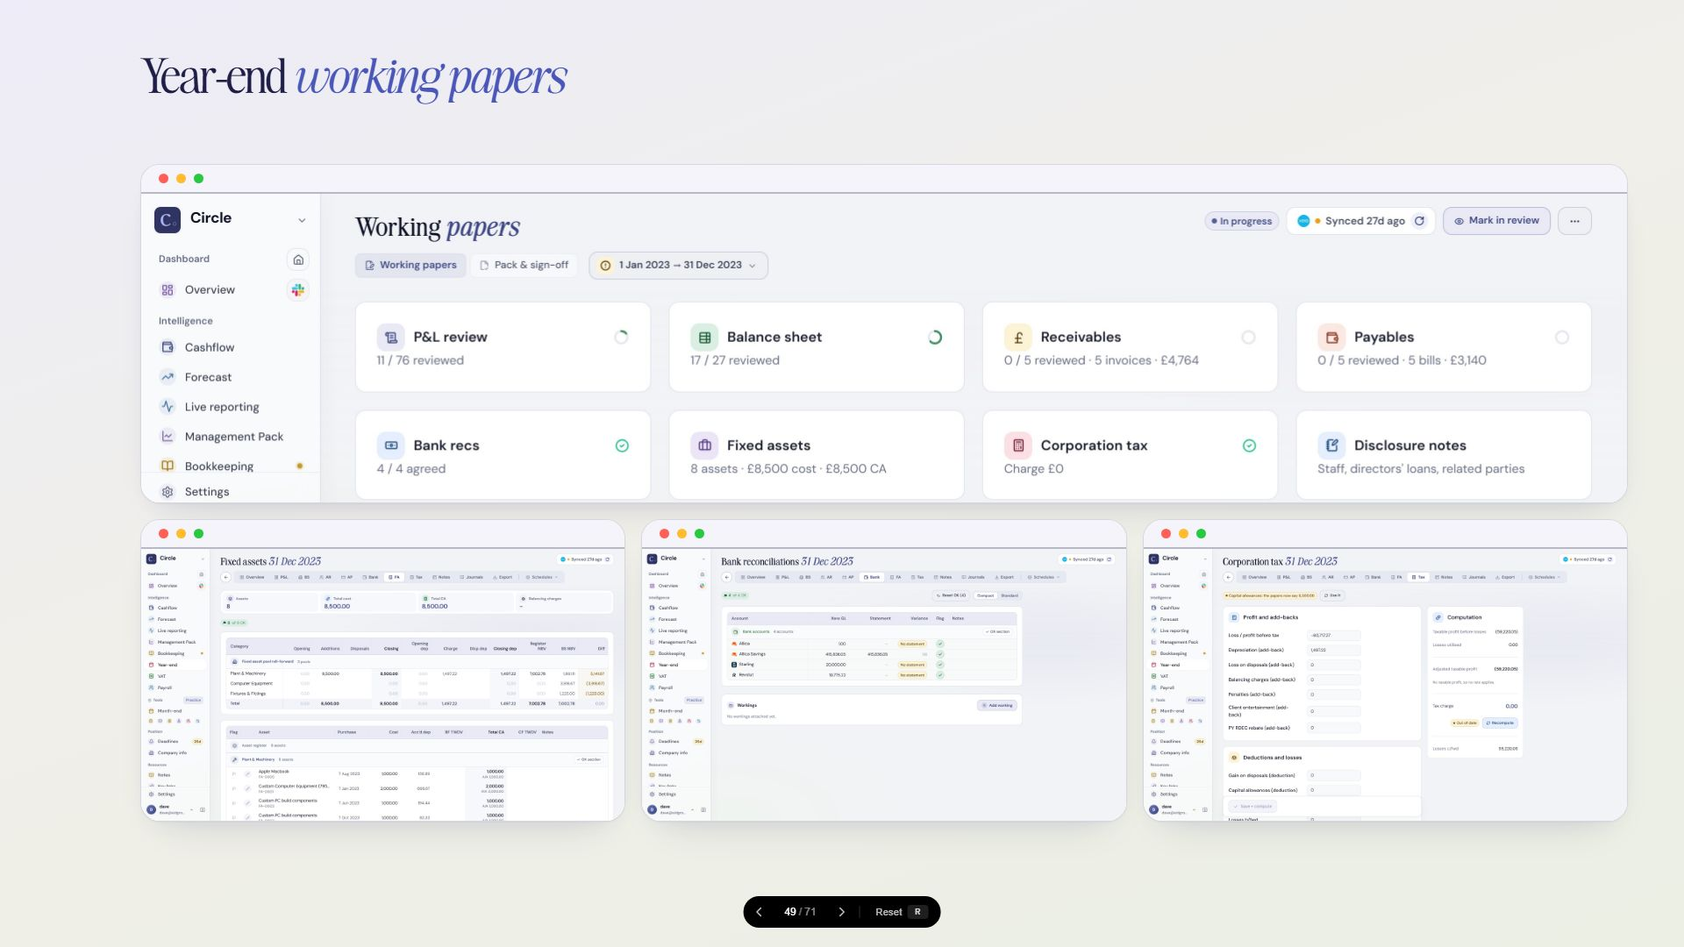
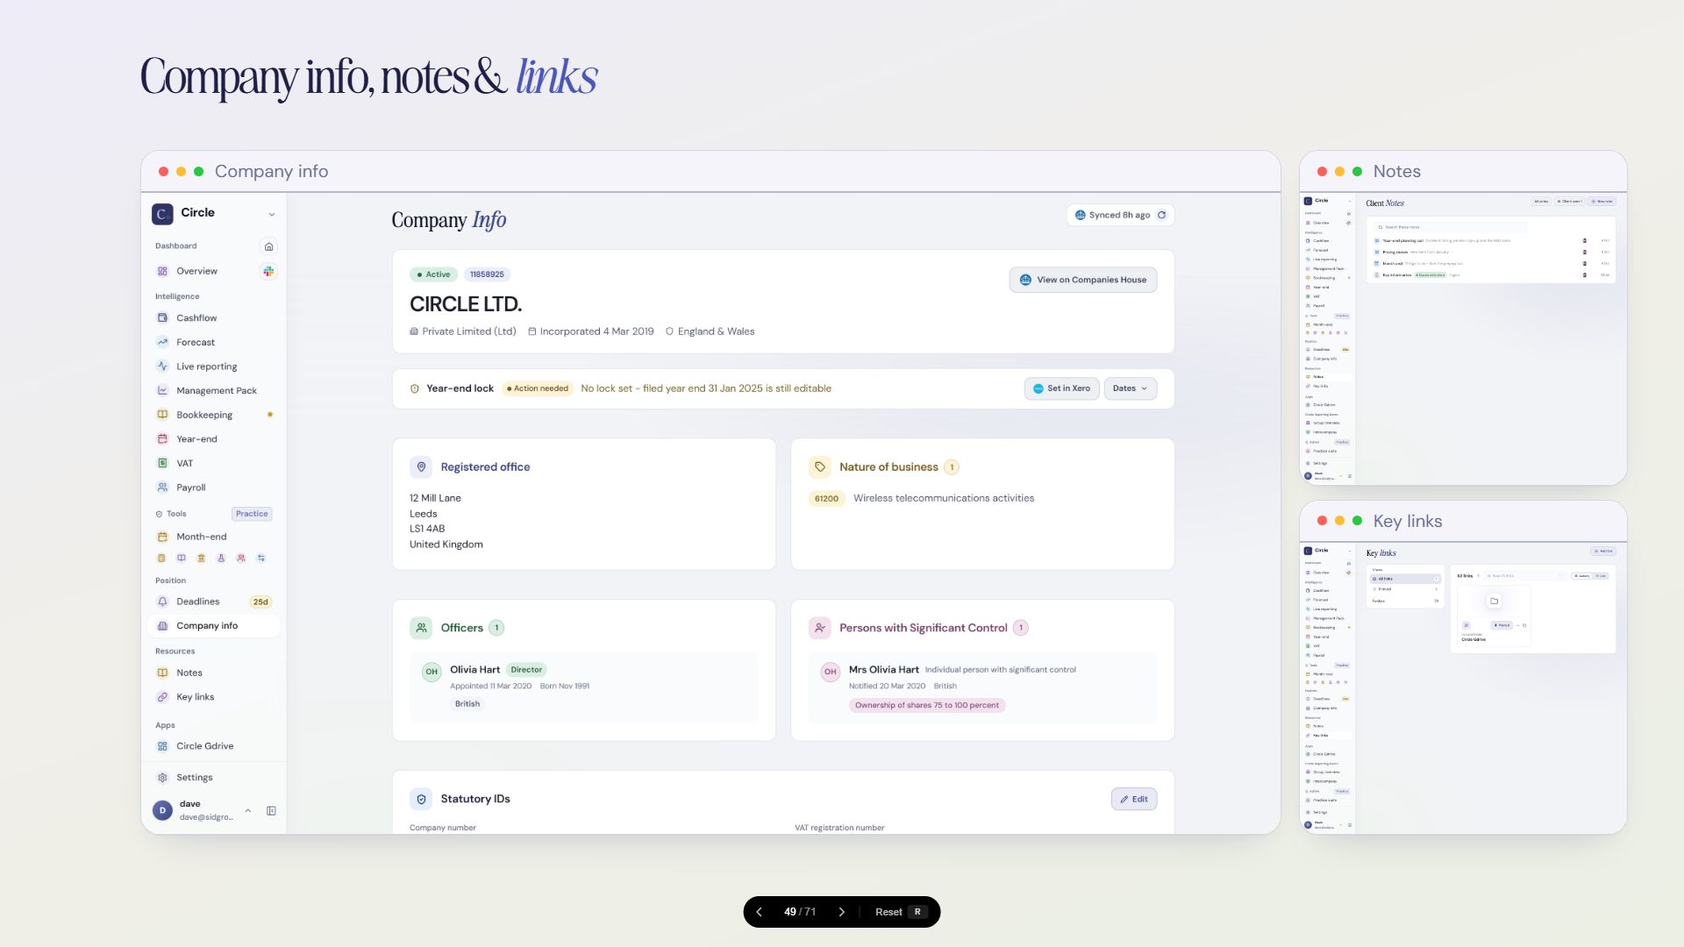
Auto Bank Wreck: cash slides lead the section, live reporting opened to its transactions, payroll journal, proposals hub, company info with notes and links, schedules named, automations and section tags removed

diff --git a/presentations/auto-bank-wreck/index.html b/presentations/auto-bank-wreck/index.html
@@ -2676,99 +2676,6 @@ deck-stage { background: #0a0a0a; }
     </div>
   </section>
 
-  <section class="slide" data-label="Practice &amp; client overview">
-    <div class="frame" style="--pad-y: 56px;">
-      <div class="topbar"><p class="section-tag">What works <em>· 02 build</em></p><span class="page-chip"></span></div>
-
-      <div class="feat-head"><h2 class="display">Practice &amp; client <em>overview</em></h2></div>
-      <div class="fill center-y">
-        <div class="duo">
-        <figure class="shot window"><img src="images/slides/41a-app-showcase/practice-overview-tall-oct06.jpg" alt="Practice overview: every client with cash, bank lines, staff, packs, VAT, year end and confirmation statement"><figcaption></figcaption></figure>
-        <figure class="shot window"><img src="images/slides/41a-app-showcase/client-overview-oct06.jpg" alt="Circle's client overview: cash, net this month, things to action and the month-end checklist"><figcaption></figcaption></figure>
-        </div>
-      </div>
-
-      <div class="bottombar"></div>
-    </div>
-  </section>
-
-  <section class="slide" data-label="Deadlines">
-    <div class="frame" style="--pad-y: 56px;">
-      <div class="topbar"><p class="section-tag">What works <em>· 02 build</em></p><span class="page-chip"></span></div>
-
-      <div class="feat-head"><h2 class="display">Deadlines &amp; <em>HMRC</em></h2></div>
-      <div class="fill center-y">
-        <div class="pair trio">
-          <figure class="shot window"><img src="images/slides/41a-app-showcase/deadlines-practice-tall-oct06.jpg" alt="Practice deadlines: what is next, then every client's year-end accounts, confirmation statements and VAT"><figcaption></figcaption></figure>
-          <figure class="shot window"><img src="images/slides/41a-app-showcase/deadlines-client-tall-oct06.jpg" alt="Circle's own deadlines page: what is next, the year ahead and each month's filings"><figcaption></figcaption></figure>
-          <div class="slack-inset side digest" aria-hidden="true">
-            <div class="si-bar"><img src="images/shared/site/slack.svg" alt=""><span>#_filing_deadlines</span></div>
-            <img class="sk-image" src="images/shared/slack/deadlines-digest-oct06.png" alt="">
-          </div>
-        </div>
-      </div>
-
-      <div class="bottombar"></div>
-    </div>
-  </section>
-
-  <section class="slide" data-label="Setlist">
-    <div class="frame" style="--pad-y: 56px;">
-      <div class="topbar"><p class="section-tag">What works <em>· 02 build</em></p><span class="page-chip"></span></div>
-
-      <div class="feat-head"><h2 class="display">Set<em>list</em></h2></div>
-      <div class="fill center-y">
-        <div class="shot-wrap">
-        <figure class="shot window"><img src="images/slides/41a-app-showcase/setlist-oct06.jpg" alt="Setlist: inbox, projects, overdue work, the day planner and filing deadlines in one place"><figcaption></figcaption></figure>
-        </div>
-      </div>
-
-      <div class="bottombar"></div>
-    </div>
-  </section>
-
-  <section class="slide" data-label="Automations">
-    <div class="frame" style="--pad-y: 56px;">
-      <div class="topbar"><p class="section-tag">What works <em>· 02 build</em></p><span class="page-chip"></span></div>
-
-      <div class="feat-head"><h2 class="display">Practice <em>automations</em></h2></div>
-      <div class="fill center-y">
-        <div class="pair">
-          <figure class="shot window"><img src="images/slides/41a-app-showcase/automations-oct06.jpg" alt="Practice automations: 51 automations, each run tracked, failures and overdue runs flagged"><figcaption></figcaption></figure>
-          <div class="slack-inset side" aria-hidden="true">
-            <div class="si-bar"><img src="images/shared/site/slack.svg" alt=""><span>#automation_flags</span></div>
-            <div class="si-msg">
-              <span class="si-av">S</span>
-              <div class="si-body">
-                <p class="si-name">Sidgrove Intelligence <span class="sk-app">APP</span> <span class="si-time">3:00</span></p>
-                <p class="sk-header">⚠ Automation Error</p>
-                <div class="sk-fields"><span><b>Workflow</b><br>Cashflow Daily - CBD HF</span><span><b>Spreadsheet</b><br>CBD HF - Cashflow Review by Contact</span><span><b>When</b><br>6 Oct 2026, 02:38</span></div>
-                <div class="sk-actions"><span class="sk-btn">📄 Open spreadsheet</span></div>
-              </div>
-            </div>
-          </div>
-        </div>
-      </div>
-
-      <div class="bottombar"></div>
-    </div>
-  </section>
-
-  <section class="slide" data-label="Embedded AI">
-    <div class="frame" style="--pad-y: 56px;">
-      <div class="topbar"><p class="section-tag">What works <em>· 02 build</em></p><span class="page-chip"></span></div>
-
-      <div class="feat-head has-sub"><h2 class="display">Embedded <em>AI</em></h2><p class="sub feat-sub">AI savvy, not AI native. <em>Deterministic at its core.</em></p></div>
-      <div class="fill center-y">
-        <div class="shot-wrap">
-          <figure class="shot window"><img src="images/slides/41a-app-showcase/ai-integrations-oct06.jpg" alt="AI integrations: Claude, Jev, Gemini and other labs, what each one does, and the month spend against its budget"><figcaption></figcaption></figure>
-        </div>
-      </div>
-
-      <div class="bottombar"></div>
-    </div>
-  </section>
-
   <section class="slide" data-label="Daily cashflow">
     <div class="frame" style="--pad-y: 56px;">
       <div class="topbar"><p class="section-tag">What works <em>· 02 build</em></p><span class="page-chip"></span></div>
@@ -2827,6 +2734,72 @@ deck-stage { background: #0a0a0a; }
     </div>
   </section>
 
+  <section class="slide" data-label="Practice &amp; client overview">
+    <div class="frame" style="--pad-y: 56px;">
+      <div class="topbar"><p class="section-tag">What works <em>· 02 build</em></p><span class="page-chip"></span></div>
+
+      <div class="feat-head"><h2 class="display">Practice &amp; client <em>overview</em></h2></div>
+      <div class="fill center-y">
+        <div class="duo">
+        <figure class="shot window"><img src="images/slides/41a-app-showcase/practice-overview-tall-oct06.jpg" alt="Practice overview: every client with cash, bank lines, staff, packs, VAT, year end and confirmation statement"><figcaption></figcaption></figure>
+        <figure class="shot window"><img src="images/slides/41a-app-showcase/client-overview-oct06.jpg" alt="Circle's client overview: cash, net this month, things to action and the month-end checklist"><figcaption></figcaption></figure>
+        </div>
+      </div>
+
+      <div class="bottombar"></div>
+    </div>
+  </section>
+
+  <section class="slide" data-label="Deadlines">
+    <div class="frame" style="--pad-y: 56px;">
+      <div class="topbar"><p class="section-tag">What works <em>· 02 build</em></p><span class="page-chip"></span></div>
+
+      <div class="feat-head"><h2 class="display">Deadlines &amp; <em>HMRC</em></h2></div>
+      <div class="fill center-y">
+        <div class="pair trio">
+          <figure class="shot window"><img src="images/slides/41a-app-showcase/deadlines-practice-tall-oct06.jpg" alt="Practice deadlines: what is next, then every client's year-end accounts, confirmation statements and VAT"><figcaption></figcaption></figure>
+          <figure class="shot window"><img src="images/slides/41a-app-showcase/deadlines-client-tall-oct06.jpg" alt="Circle's own deadlines page: what is next, the year ahead and each month's filings"><figcaption></figcaption></figure>
+          <div class="slack-inset side digest" aria-hidden="true">
+            <div class="si-bar"><img src="images/shared/site/slack.svg" alt=""><span>#_filing_deadlines</span></div>
+            <img class="sk-image" src="images/shared/slack/deadlines-digest-oct06.png" alt="">
+          </div>
+        </div>
+      </div>
+
+      <div class="bottombar"></div>
+    </div>
+  </section>
+
+  <section class="slide" data-label="Setlist">
+    <div class="frame" style="--pad-y: 56px;">
+      <div class="topbar"><p class="section-tag">What works <em>· 02 build</em></p><span class="page-chip"></span></div>
+
+      <div class="feat-head"><h2 class="display">Set<em>list</em></h2></div>
+      <div class="fill center-y">
+        <div class="shot-wrap">
+        <figure class="shot window"><img src="images/slides/41a-app-showcase/setlist-oct06.jpg" alt="Setlist: inbox, projects, overdue work, the day planner and filing deadlines in one place"><figcaption></figcaption></figure>
+        </div>
+      </div>
+
+      <div class="bottombar"></div>
+    </div>
+  </section>
+
+  <section class="slide" data-label="Embedded AI">
+    <div class="frame" style="--pad-y: 56px;">
+      <div class="topbar"><p class="section-tag">What works <em>· 02 build</em></p><span class="page-chip"></span></div>
+
+      <div class="feat-head has-sub"><h2 class="display">Embedded <em>AI</em></h2><p class="sub feat-sub">AI savvy, not AI native. <em>Deterministic at its core.</em></p></div>
+      <div class="fill center-y">
+        <div class="shot-wrap">
+          <figure class="shot window"><img src="images/slides/41a-app-showcase/ai-integrations-oct06.jpg" alt="AI integrations: Claude, Jev, Gemini and other labs, what each one does, and the month spend against its budget"><figcaption></figcaption></figure>
+        </div>
+      </div>
+
+      <div class="bottombar"></div>
+    </div>
+  </section>
+
   <section class="slide" data-label="Management accounts">
     <div class="frame" style="--pad-y: 56px;">
       <div class="topbar"><p class="section-tag">What works <em>· 02 build</em></p><span class="page-chip"></span></div>
@@ -2874,7 +2847,7 @@ deck-stage { background: #0a0a0a; }
       <div class="feat-head"><h2 class="display">Live <em>reporting</em></h2></div>
       <div class="fill center-y">
         <div class="shot-wrap">
-          <figure class="shot window"><img src="images/slides/41a-app-showcase/live-reporting-oct06.jpg" alt="Circle live profit and loss, straight from Xero: month by month with variance"><figcaption></figcaption></figure>
+          <figure class="shot window"><img src="images/slides/41a-app-showcase/live-drill-oct06.jpg" alt="Circle live profit and loss with one figure opened: its transactions with supplier logos, each one a click from the prepayments and accruals schedule"><figcaption></figcaption></figure>
         </div>
       </div>
 
@@ -2931,11 +2904,11 @@ deck-stage { background: #0a0a0a; }
       <div class="feat-head"><h2 class="display">Month <em>end</em></h2></div>
       <div class="fill center-y">
         <div class="mosaic">
-          <figure class="shot window"><img src="images/slides/41a-app-showcase/accruals-oct06.jpg" alt="Circle prepayments and accruals schedule with supplier logos, synced to Xero"><figcaption></figcaption></figure>
+          <figure class="shot window"><img src="images/slides/41a-app-showcase/accruals-oct06.jpg" alt="Circle prepayments and accruals schedule with supplier logos, synced to Xero"><figcaption>Prepayments &amp; accruals</figcaption></figure>
           <div class="mosaic-col">
-            <figure class="shot window"><img src="images/slides/41a-app-showcase/payroll-realloc-oct06.jpg" alt="Payroll reallocations by department, posted to Xero"><figcaption></figcaption></figure>
-            <figure class="shot window"><img src="images/slides/41a-app-showcase/direct-costs-oct06.jpg" alt="Direct costs reallocation journal"><figcaption></figcaption></figure>
-            <figure class="shot window"><img src="images/slides/41a-app-showcase/corp-tax-oct06.jpg" alt="Corporation tax accrual, month by month"><figcaption></figcaption></figure>
+            <figure class="shot window"><img src="images/slides/41a-app-showcase/payroll-realloc-oct06.jpg" alt="Payroll reallocations by department, posted to Xero"><figcaption>Payroll reallocations</figcaption></figure>
+            <figure class="shot window"><img src="images/slides/41a-app-showcase/direct-costs-oct06.jpg" alt="Direct costs reallocation journal"><figcaption>Direct costs</figcaption></figure>
+            <figure class="shot window"><img src="images/slides/41a-app-showcase/corp-tax-oct06.jpg" alt="Corporation tax accrual, month by month"><figcaption>Corporation tax</figcaption></figure>
           </div>
         </div>
       </div>
@@ -2950,11 +2923,9 @@ deck-stage { background: #0a0a0a; }
 
       <div class="feat-head"><h2 class="display">Payroll <em>review</em></h2></div>
       <div class="fill center-y">
-        <div class="pair">
-          <figure class="shot window">
-            <img src="images/slides/41a-app-showcase/payroll-oct06.jpg" alt="Circle payroll review: this month against last, line by line">
-            <figcaption></figcaption>
-          </figure>
+        <div class="pair trio">
+          <figure class="shot window"><img src="images/slides/41a-app-showcase/payroll-review-tall-oct06.jpg" alt="Circle payroll review: this month against last, line by line"><figcaption></figcaption></figure>
+          <figure class="shot window"><img src="images/slides/41a-app-showcase/payroll-journal-tall-oct06.jpg" alt="The payroll journal for the month, balanced and ready to post to Xero"><figcaption></figcaption></figure>
           <div class="slack-inset side" aria-hidden="true">
             <div class="si-bar"><img src="images/shared/site/slack.svg" alt=""><span>#circle_finance</span></div>
             <div class="si-msg">
@@ -3038,6 +3009,25 @@ deck-stage { background: #0a0a0a; }
     </div>
   </section>
 
+  <section class="slide" data-label="Company info, notes &amp; links">
+    <div class="frame" style="--pad-y: 56px;">
+      <div class="topbar"><p class="section-tag">What works <em>· 02 build</em></p><span class="page-chip"></span></div>
+
+      <div class="feat-head"><h2 class="display">Company info, notes &amp; <em>links</em></h2></div>
+      <div class="fill center-y">
+        <div class="mosaic two">
+          <figure class="shot window"><img src="images/slides/41a-app-showcase/company-info-oct06.jpg" alt="Company information from Companies House: registered office, nature of business, officers and persons with significant control"><figcaption>Company info</figcaption></figure>
+          <div class="mosaic-col">
+            <figure class="shot window"><img src="images/slides/41a-app-showcase/notes-tall-oct06.jpg" alt="Client notes, some shared with the client"><figcaption>Notes</figcaption></figure>
+            <figure class="shot window"><img src="images/slides/41a-app-showcase/links-tall-oct06.jpg" alt="Key links for the client, pinned and in folders"><figcaption>Key links</figcaption></figure>
+          </div>
+        </div>
+      </div>
+
+      <div class="bottombar"></div>
+    </div>
+  </section>
+
     <section class="slide" data-label="Groups &amp; intercompany">
     <div class="frame" style="--pad-y: 56px;">
       <div class="topbar"><p class="section-tag">What works <em>· 02 build</em></p><span class="page-chip"></span></div>
@@ -3088,9 +3078,9 @@ deck-stage { background: #0a0a0a; }
 
       <div class="feat-head"><h2 class="display"><em>Proposals</em></h2></div>
       <div class="fill center-y">
-        <div class="duo with-side">
-        <figure class="shot window"><img src="images/slides/41a-app-showcase/proposal-cover.jpg" alt="A proposal for Circle: the cover and the current situation"><figcaption></figcaption></figure>
-        <figure class="shot window"><img src="images/slides/41a-app-showcase/proposal-fees.jpg" alt="The proposal fees: recurring monthly services with the first three months discounted"><figcaption></figcaption></figure>
+        <div class="tri3 fit">
+          <figure class="shot window"><img src="images/slides/41a-app-showcase/proposals-hub-oct06.jpg" alt="Practice proposals: what to chase, drafts, won this year, and each proposal with its status. Names and figures changed"><figcaption></figcaption></figure>
+          <figure class="shot window"><img src="images/slides/41a-app-showcase/proposal-fees.jpg" alt="The proposal fees: recurring monthly services with the first three months discounted"><figcaption></figcaption></figure>
           <div class="slack-inset side" aria-hidden="true">
             <div class="si-bar"><img src="images/shared/site/slack.svg" alt=""><span>#proposals</span></div>
             <div class="si-msg">
@@ -3887,24 +3877,24 @@ deck-stage { background: #0a0a0a; }
   {"say":["So how do I build those deterministic tools? Vibe coding: describe it, it codes it. Everything in this section - the app, the slides, the websites, the brand - was built this way."]},
   {"say":["Sidgrove Intelligence: the app that sits between my clients and the work I do. Every line of it was written with Claude Code. Solid surfaces, dense where it needs to be; it is a product, not a demo.","Think of it as an orchestration layer: Xero, the sheets, payroll and Slack, with one way in and one way out. And the future is embedding something like this directly into the ledger."]},
   {"say":["Hundreds of features, and counting. One app. It sits between me and my clients, with Slack alongside: one way in and one way out for the whole firm, not fifteen apps stitched together.","And much more. It has become the central app between my clients and the work, with Slack alongside for live comms. The GenAI is in how it was built, not in what it posts."]},
-  {"say":["The practice overview: every client, their cash, what is due and what is late. And one click into any client: cash, what needs doing, and the month-end checklist."]},
-  {"say":["Deadlines. The practice view on the left: every client's year-end accounts, confirmation statements and VAT. The client's own view in the middle. And every morning at eight the same thing lands in Slack."]},
-  {"say":["Task management, built in: every project, the day planned, and the filing deadlines sitting alongside the work."]},
-  {"say":["Fifty automations running across the practice, every run tracked. When one fails, it says so."]},
-  {"say":["And the AI inside it. AI savvy, not AI native: the app is deterministic at its core, and AI is used where it earns its place. Every model, what it does, what it reads, and what it costs: about six pounds this month."]},
   {"say":["Daily cashflow, pulled over the bank and ledger APIs every morning. This is the demo client, Circle; the real ones look the same.","And the weekly cashflow report lands in Slack automatically: balance, net, spend, income, top payments. Nobody has to open the app."]},
   {"say":["The 13-week cash forecast: cash today, what is coming in and going out, and the lowest point before it happens."]},
   {"say":["Forecasting: actuals roll straight into a 12-month forecast, line by line, with its own rules. This used to be a spreadsheet."]},
+  {"say":["The practice overview: every client, their cash, what is due and what is late. And one click into any client: cash, what needs doing, and the month-end checklist."]},
+  {"say":["Deadlines. The practice view on the left: every client's year-end accounts, confirmation statements and VAT. The client's own view in the middle. And every morning at eight the same thing lands in Slack."]},
+  {"say":["Task management, built in: every project, the day planned, and the filing deadlines sitting alongside the work."]},
+  {"say":["And the AI inside it. AI savvy, not AI native: the app is deterministic at its core, and AI is used where it earns its place. Every model, what it does, what it reads, and what it costs: about six pounds this month."]},
   {"say":["Management accounts hosted in the app, with notifications when a pack is ready and when it has been read."]},
-  {"say":["Live reporting: the P&L, balance sheet and cash flow straight from Xero, month by month, with the checks that tell you whether the numbers can be trusted yet."]},
+  {"say":["Live reporting: the P&L straight from Xero. Click any figure and it opens to its transactions, supplier by supplier. And from right there you can add one to the prepayments and accruals schedule, on the fly."]},
   {"say":["Bookkeeping workflow and comms: what is outstanding, who is waiting on whom, and the messages to the client in one place."]},
   {"say":["Month end. Prepayments and accruals on the left, synced to Xero. And the other month-end processes run the same way: payroll reallocations, direct costs, the corporation tax accrual, each one a schedule that posts its own journal."]},
-  {"say":["Payroll reviews with a client review workflow: I review, the client signs off, the trail is kept."]},
+  {"say":["Payroll. The review on the left: this month against last, every variance explained. The journal it posts in the middle, balanced. And the client approves it in Slack."]},
   {"say":["VAT reviews with the same client review workflow."]},
   {"say":["Year-end working papers, live from Xero. Each paper with its own progress: P&L and balance sheet review, receivables, payables, bank recs, fixed assets, corporation tax. Below: the fixed asset register, the bank reconciliations and the tax computation."]},
+  {"say":["And the things you always need to hand for a client: company information straight from Companies House, the notes on them, some shared with the client, and their key links."]},
   {"say":["Groups and intercompany. The matrix of every pair in the group, balanced or with its difference; any pair opened up side by side, both ledgers, month by month; and the structure itself, built from Companies House. Names blurred, figures changed."]},
   {"say":["Client forms. The hub on the left: every client's form link and what has come back. The new starter form itself in the middle. And when someone completes it, we get the ping in Slack."]},
-  {"say":["Proposals, written and sent from the same app: the situation, the services, the fees, and the client accepts online."]},
+  {"say":["Proposals. The hub: what to chase, what is in draft, what we have won. The proposal itself with its fees. And a ping the moment someone accepts."]},
   {"say":["And it is not only in the browser. Three desktop apps. Acapella is my own dictation app: hold a key, speak, and it types into whatever is open; it replaced Wispr Flow. Setlist is my task manager; it replaced Todoist. And Sidgrove Intelligence itself, in its own window."]},
   {"say":["And this is the big new opportunity. Every client gets their own dashboard, in their own colours, built from their own data, in days not months. Not a template: built for them."]},
   {"say":["Three of them. A media group: the last twelve months against the year before, and which customers make the money. A chiropractic studio: twelve months against break-even at a glance. And a clinic: whether the marketing is paying for itself, spend per new patient, month by month. Different businesses, so different dashboards. Figures are changed and the logos are blurred; everything else is real."]},
@@ -4886,6 +4876,11 @@ p.perm-sub { font-size: 20px; } .perm-row .ck { font-size: 20px; } .perm-actions
 .pair-side { flex: none; position: relative; z-index: 2; width: 400px; margin-left: -22px; border-radius: 14px; border: 1px solid rgba(30,30,70,0.3); background: #fff; box-shadow: 0 24px 50px -24px rgba(15,16,48,0.4); }
 .feat-head .feat-sub { margin: 4px 0 0; font-size: 26px; }
 .feat-head.has-sub ~ .fill .shot img { max-height: 780px; }
+/* ── Round five (06/10): no section tags at all (the dividers name the acts),
+      schedules named in their title bars, proposals as hub + fees + ping. ── */
+.section-tag { visibility: hidden; }
+.feat-head ~ .fill .tri3.fit .shot img { height: auto; object-fit: contain; }
+.slide .tri3 .slack-inset.side { position: static; right: auto; bottom: auto; width: auto; zoom: 0.8; margin: 0; box-shadow: 0 24px 50px -24px rgba(15,16,48,0.4); }
 /* ══ Two looks, one deck ═══════════════════════════════════════════
    <html data-screen="standard"> is everything above: laptop, good monitor.
    <html data-screen="venue"> is the block below: a big, bright LCD in a lit
